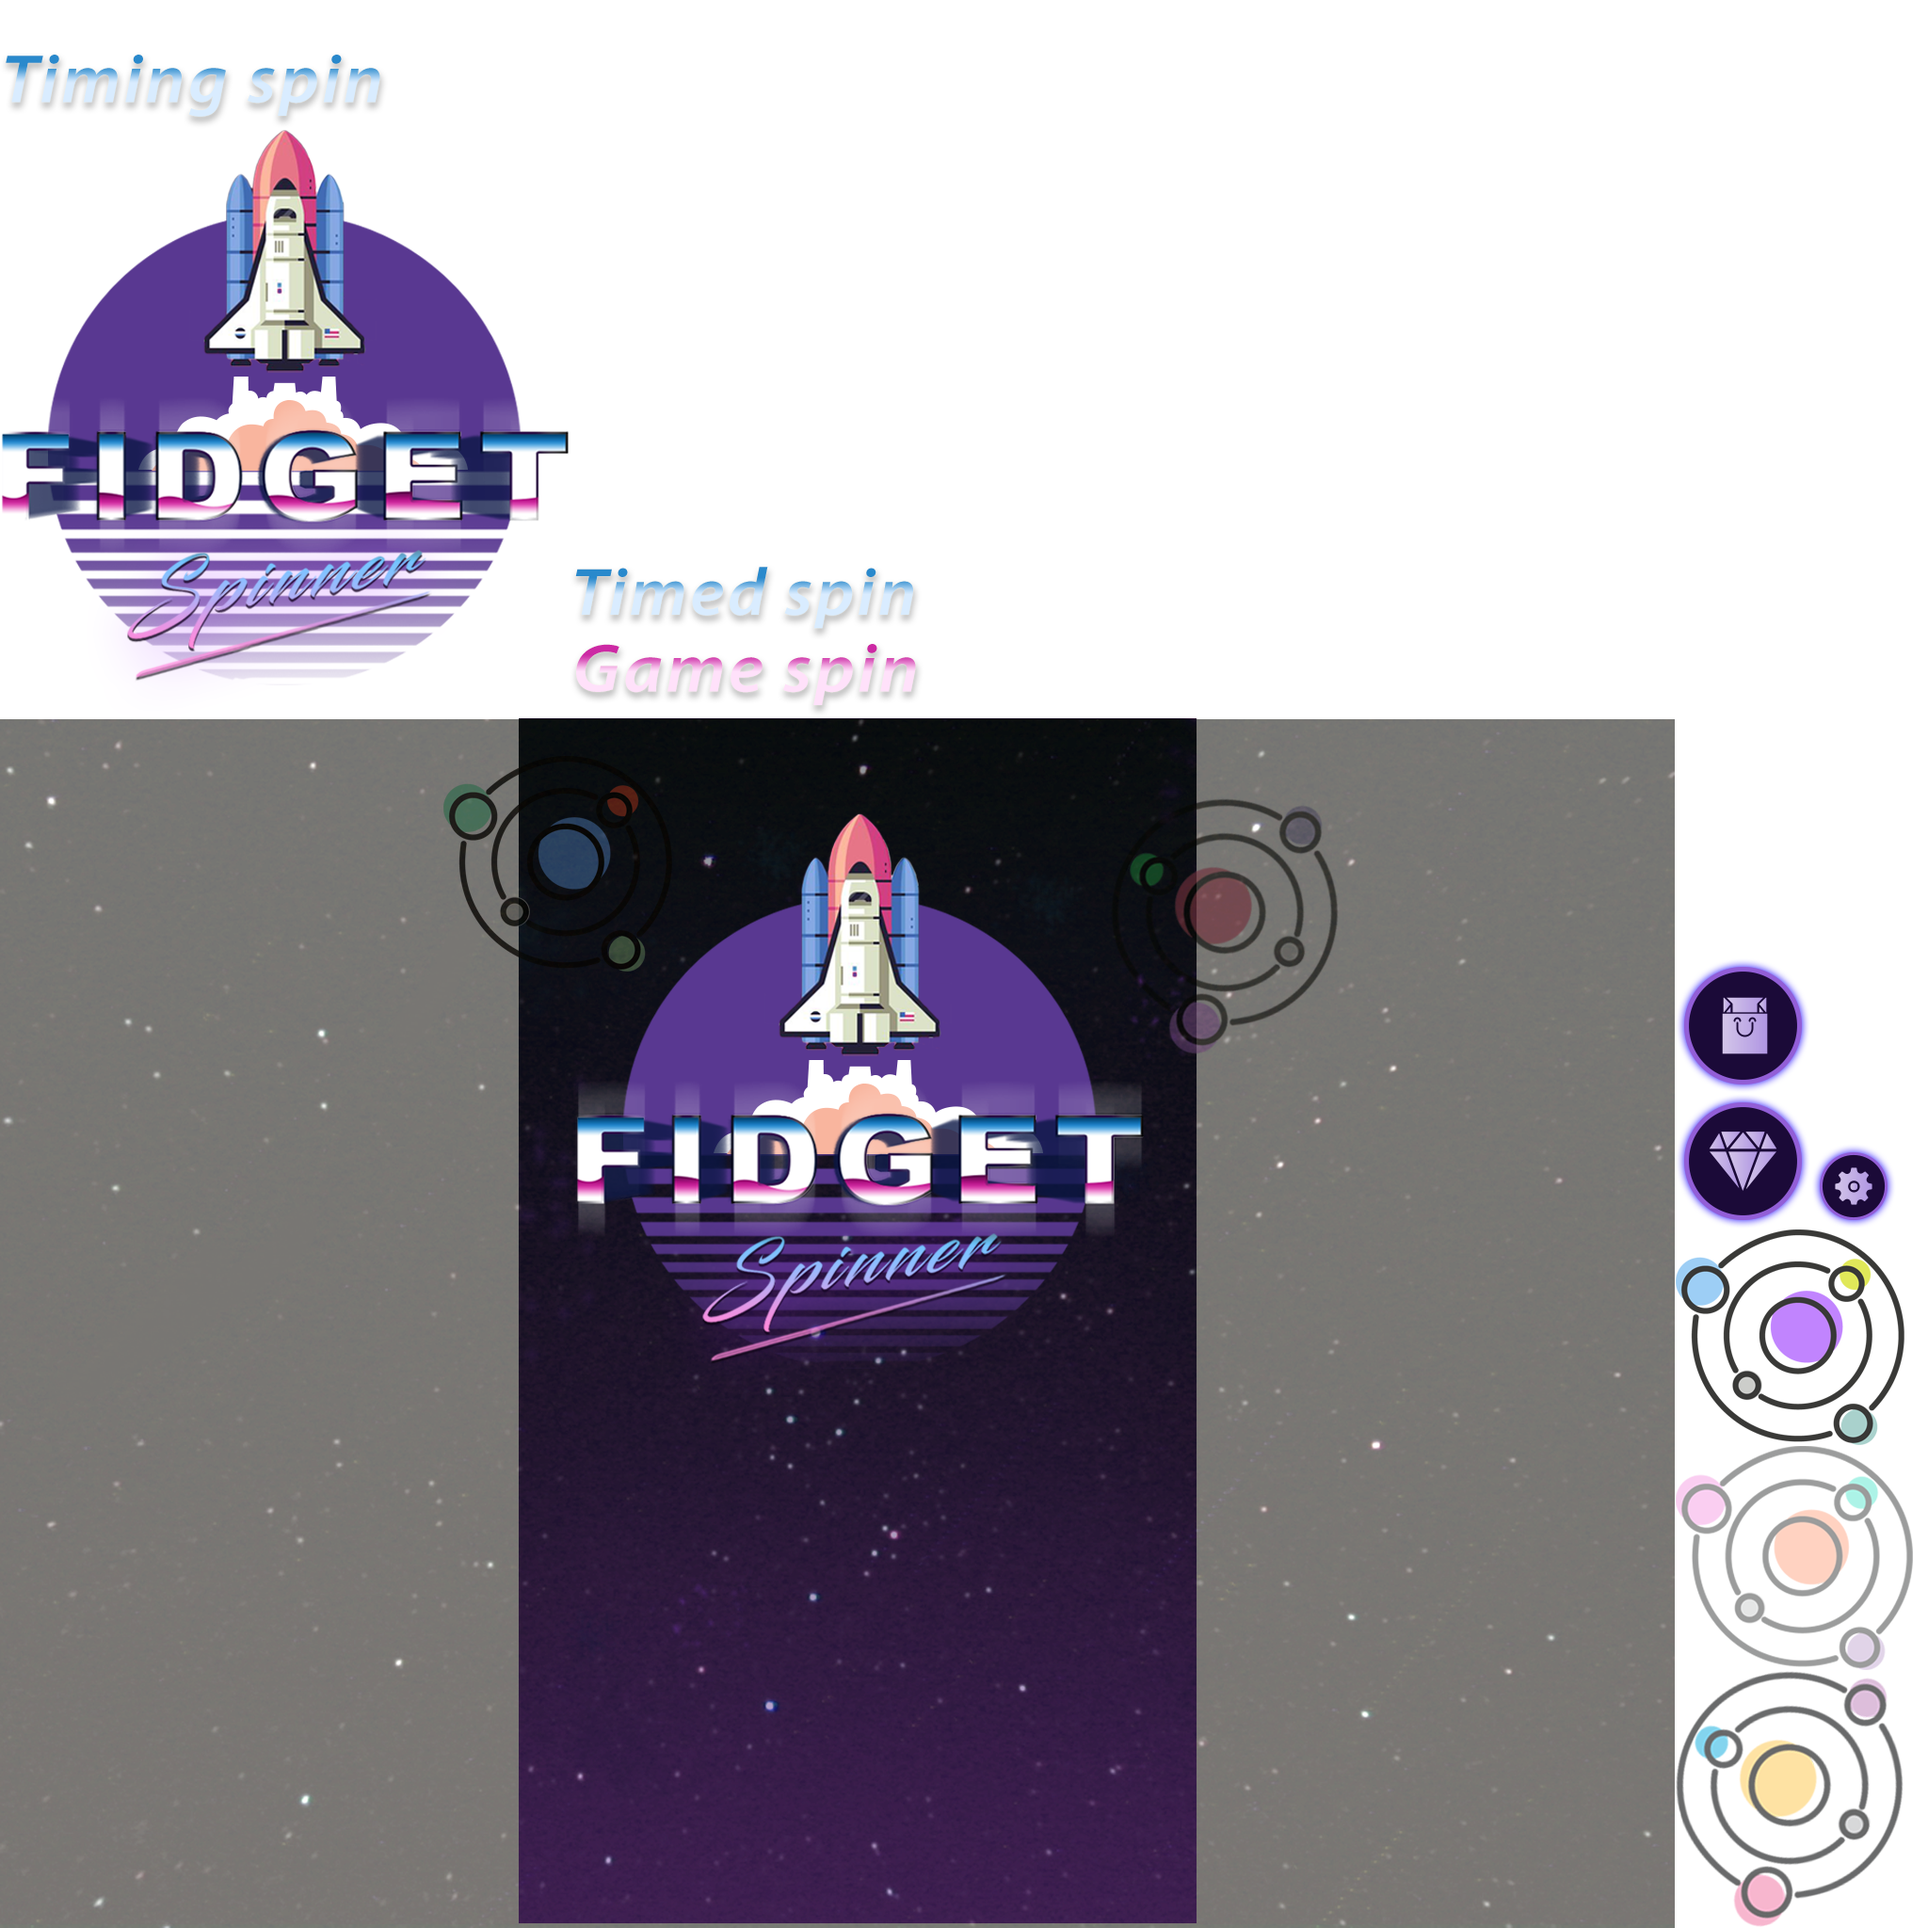
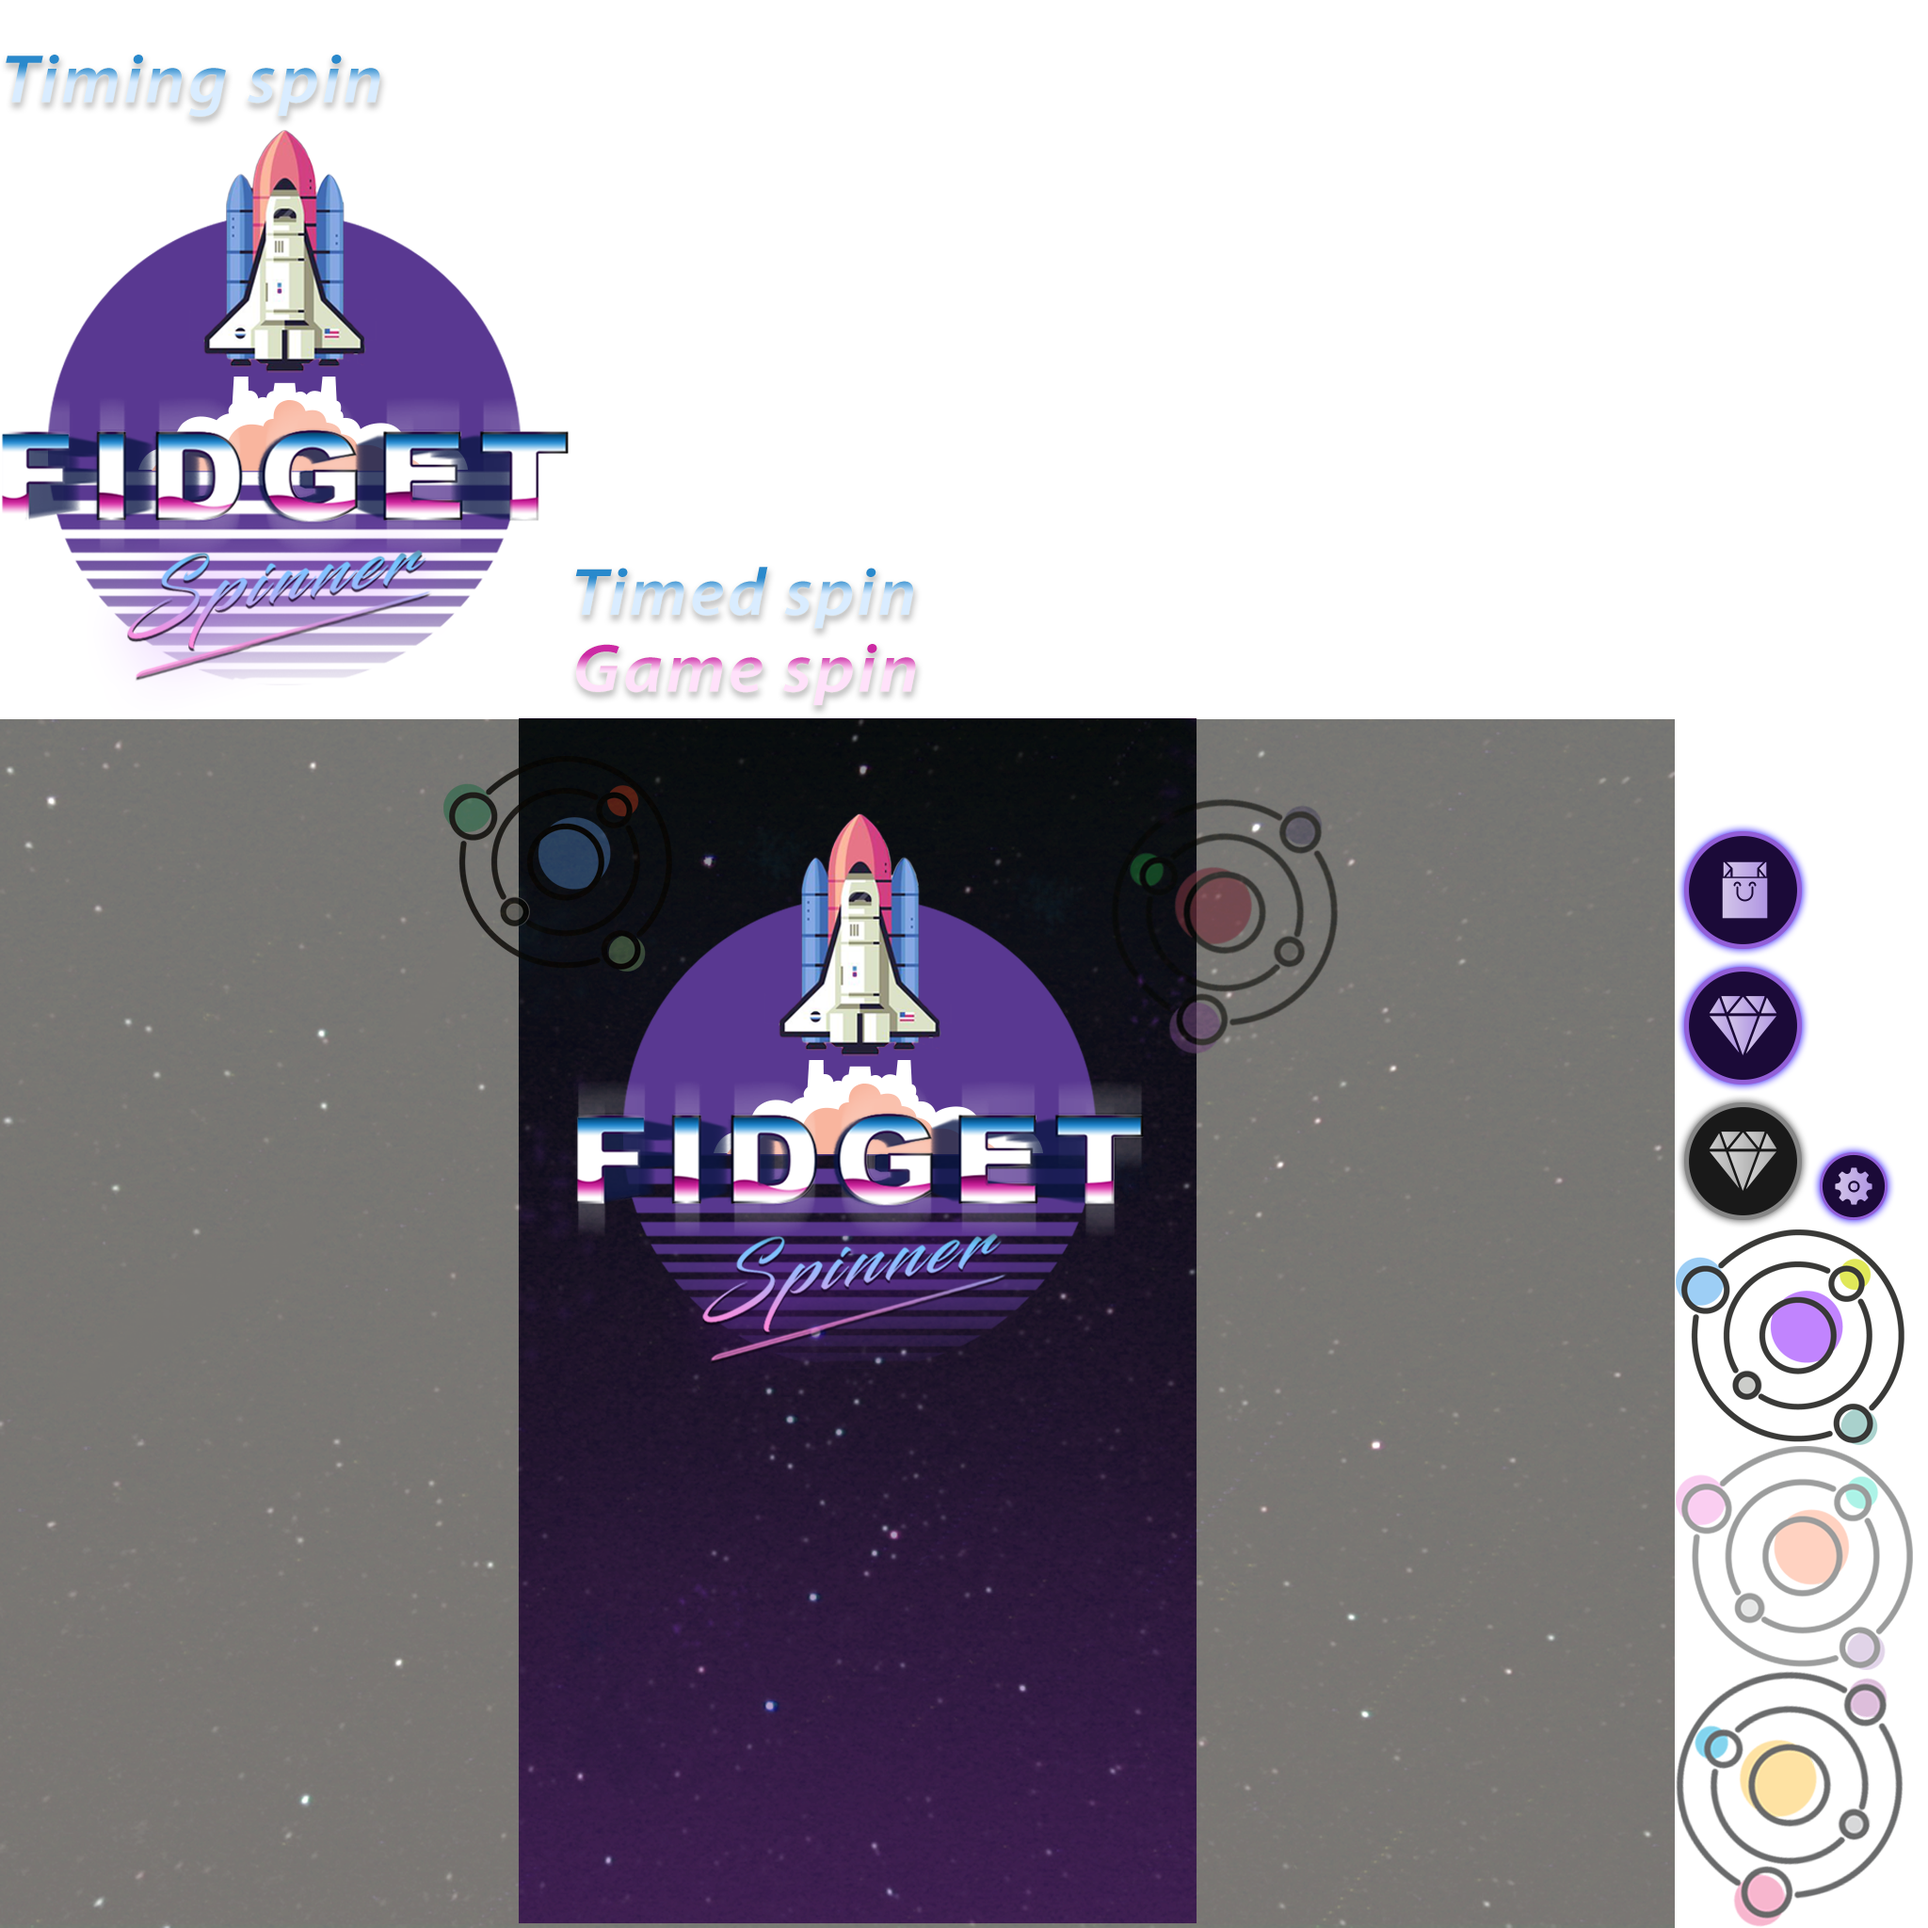
메인 보상형 광고 구현

Changed region(s): [[0.875, 0.4062, 0.9375, 0.6562]]

diff --git a/FidgetSpinner/Assets/Scripts/Common/PopupAd.cs b/FidgetSpinner/Assets/Scripts/Common/PopupAd.cs
@@ -8,12 +8,14 @@ namespace Fidget.Common
     public class PopupAd : MonoBehaviour
     {
 
-
+       
         // Use this for initialization
         void Start()
         {
-
+           
         }
+
+     
 
         // Update is called once per frame
         void Update()
@@ -21,7 +23,10 @@ namespace Fidget.Common
 
         }
 
-
+        public void Close()
+        {
+            gameObject.SetActive(false);
+        }
 
         public void AdButton()
         {
@@ -29,15 +34,16 @@ namespace Fidget.Common
             {
                 ShowOptions options = new ShowOptions();
                 options.resultCallback = AdCallbackhandler;
-                Advertisement.Show(options);
+                Advertisement.Show("rewardedVideo", options);
             }
+            gameObject.SetActive(false);
         }
         void AdCallbackhandler(ShowResult result)
         {
             switch (result)
             {
                 case ShowResult.Finished:
-                    User.Instance.Coin += 50000;
+                    User.Instance.Coin += 100000;
                     Debug.Log("Ad Finished. Rewarding player...");
                     break;
                 case ShowResult.Skipped:

diff --git a/FidgetSpinner/Assets/Scripts/Common/BottomUI.cs b/FidgetSpinner/Assets/Scripts/Common/BottomUI.cs
@@ -18,8 +18,8 @@ namespace Fidget.Common
 
         Vector3 shopBtnPos;
         Vector3 adBtnPos;
+        public UISprite btnAdSprite;
 
-      
 
         public void MoveShopScene()
         {
@@ -37,7 +37,7 @@ namespace Fidget.Common
         // Use this for initialization
         void Start()
         {
-            //Advertisement.Initialize("1515814", true);
+            StartCoroutine(ChangeStatusProc());
         }
         void MoveEnd()
         {
@@ -79,7 +79,23 @@ namespace Fidget.Common
         }
 
 
-        
+        IEnumerator ChangeStatusProc()
+        {
+            while (true)
+            {
+                if (Advertisement.IsReady())
+                {
+                    btnAdSprite.spriteName = "btn_ad@sprite";
+                    adBtnObj.GetComponent<UIButton>().normalSprite = "btn_ad@sprite";
+                }
+                else
+                {
+                    btnAdSprite.spriteName = "btn_ad_gray";
+                    adBtnObj.GetComponent<UIButton>().normalSprite = "btn_ad_gray";
+                }
+                yield return new WaitForSeconds(3f);
+            }
+        }
 
 
         // Update is called once per frame

diff --git a/FidgetSpinner/Assets/Scripts/Common/AdmobPlayer.cs b/FidgetSpinner/Assets/Scripts/Common/AdmobPlayer.cs
@@ -46,7 +46,6 @@ namespace Fidget.Common
             }
             else
             {
-                Debug.Log("NoLoad");
                 return false;
             }
         }
